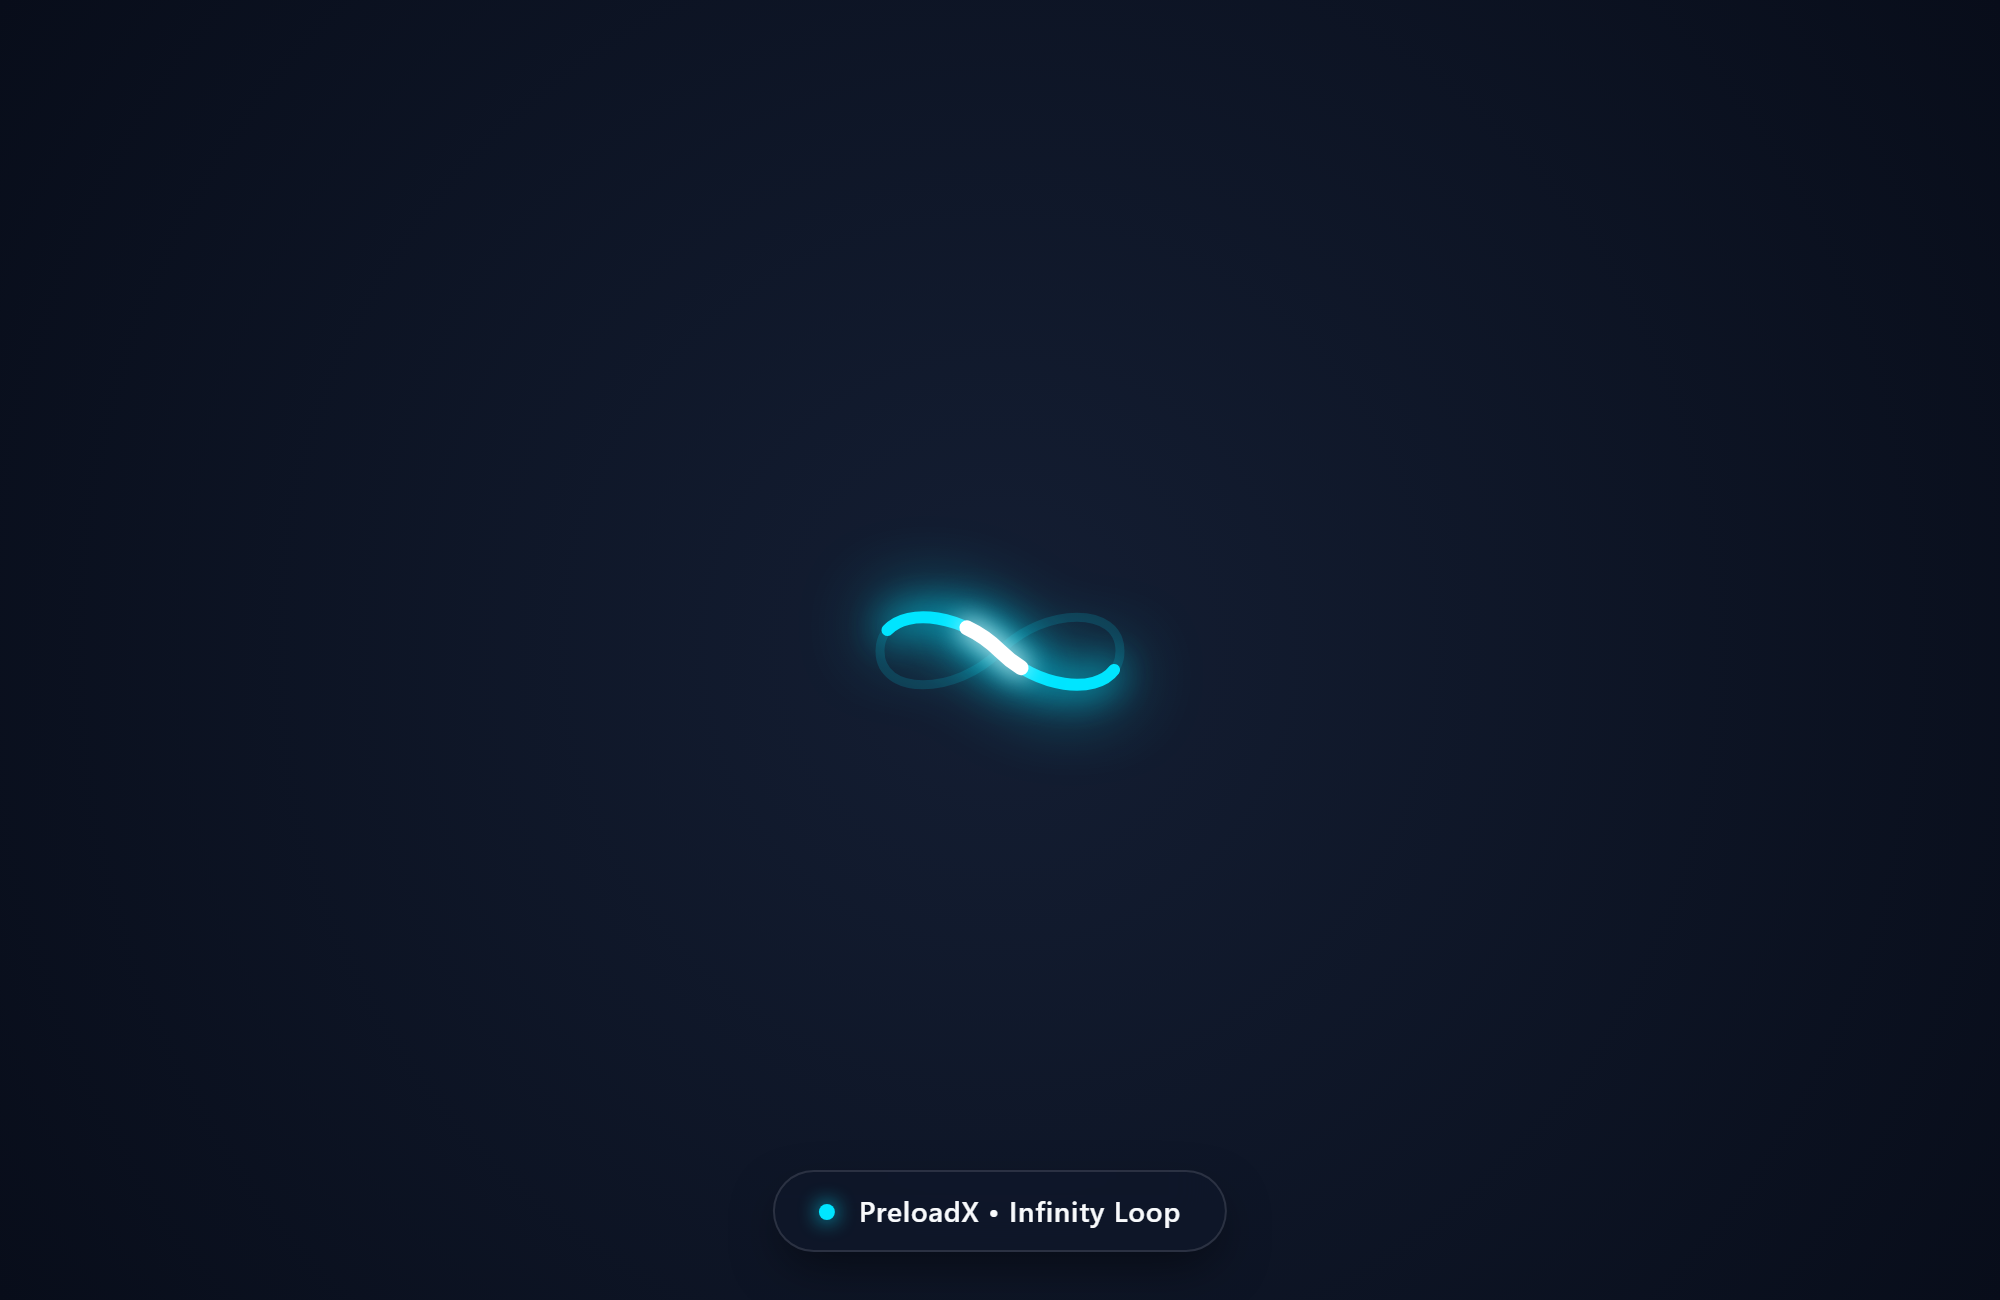
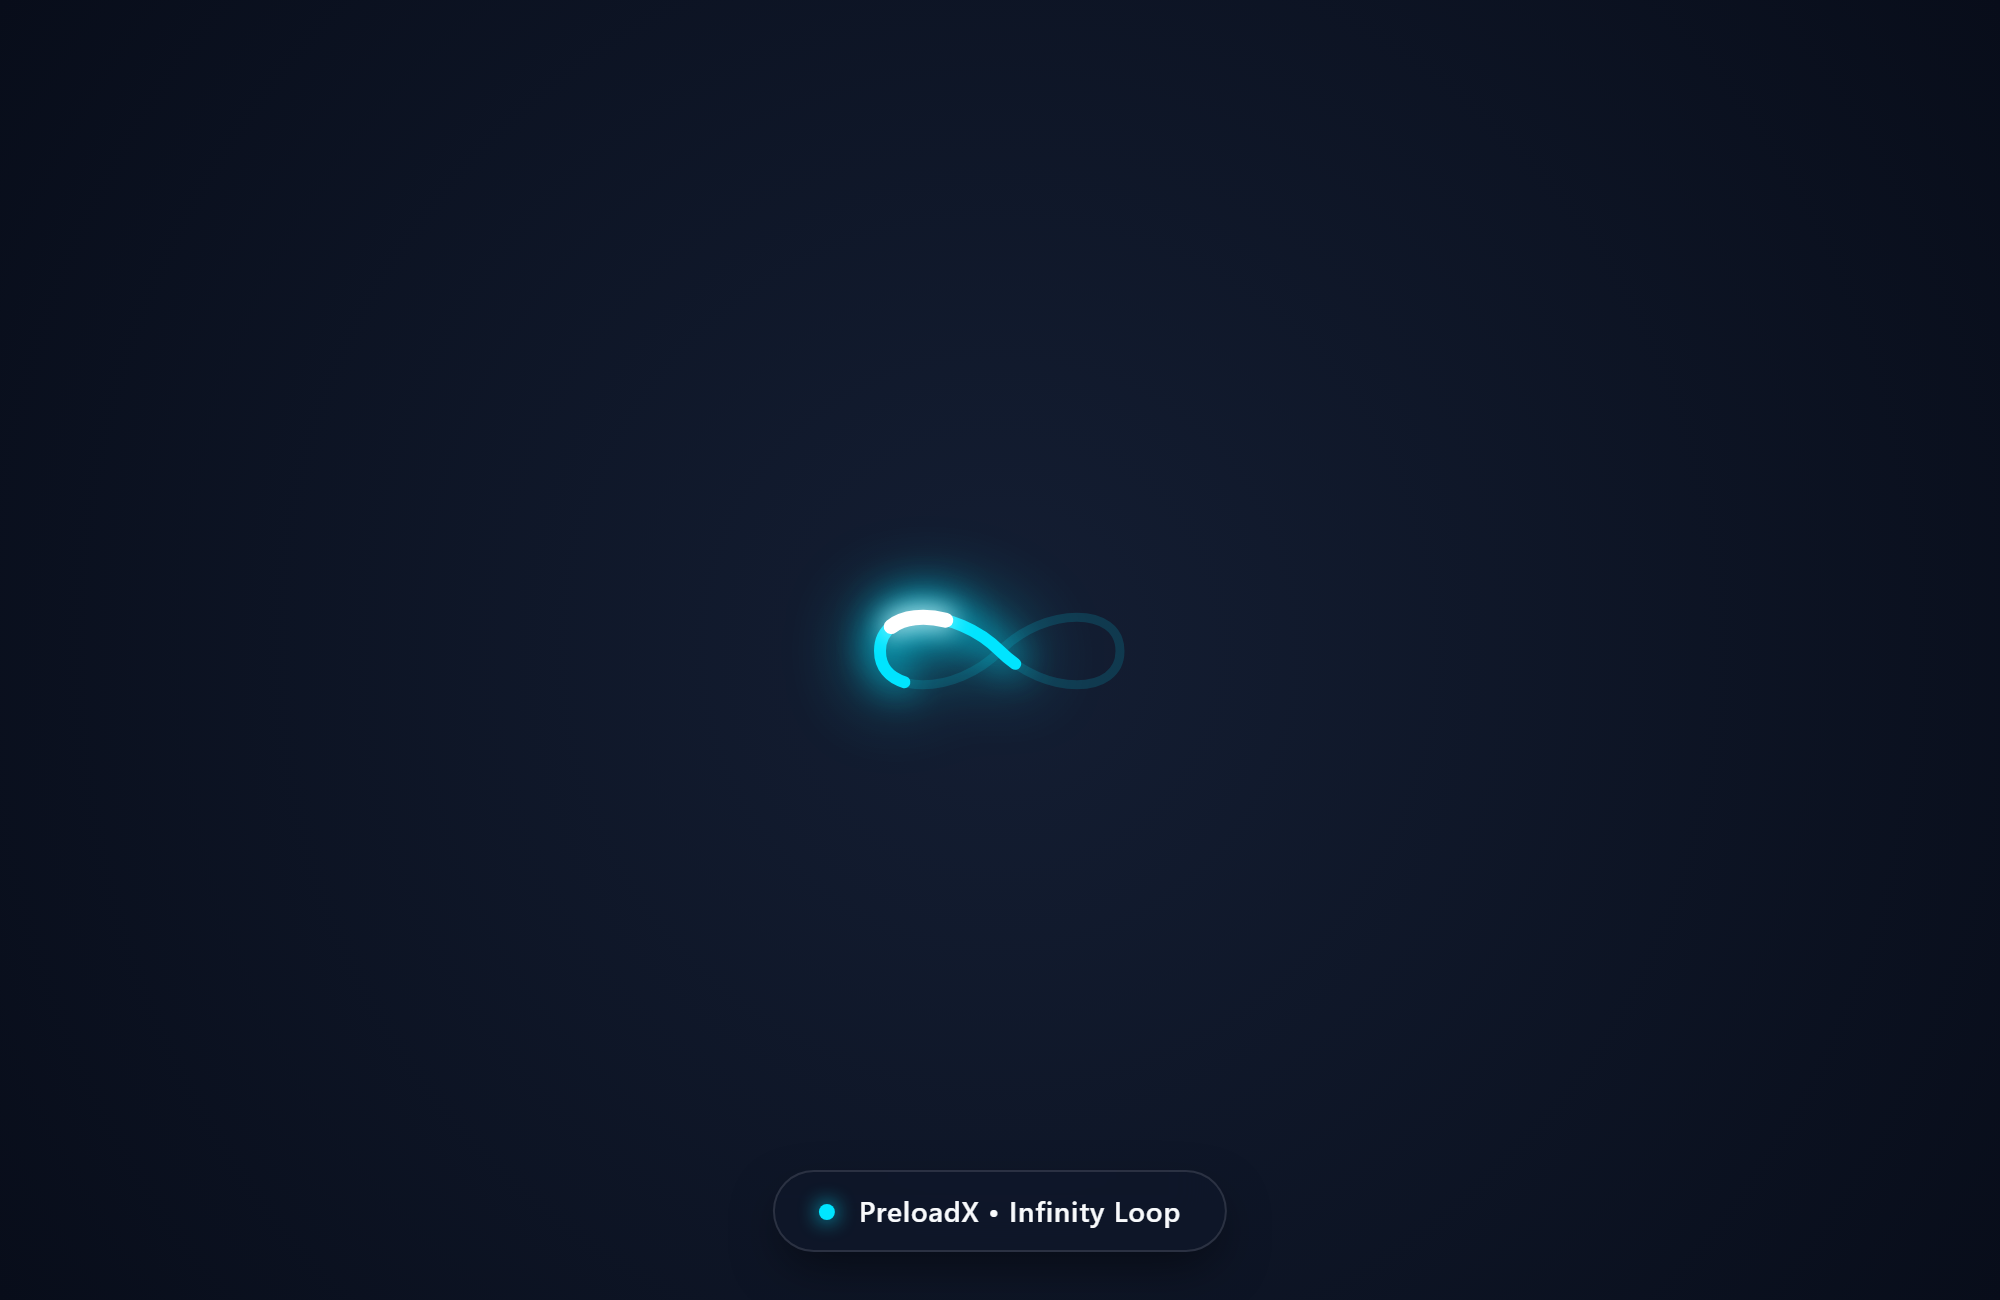
Improvement: Updated screenshots with calibrated animation timings and refreshed admin dashboard capture.

Changed region(s): [[0.403, 0.4308, 0.589, 0.5538]]

diff --git a/previews/admin-dashboard.html b/previews/admin-dashboard.html
@@ -1,0 +1,269 @@
+<!DOCTYPE html>
+<html lang="en">
+<head>
+    <meta charset="UTF-8">
+    <meta name="viewport" content="width=device-width, initial-scale=1.0">
+    <title>PreloadX Admin Dashboard</title>
+    <link rel="stylesheet" href="../src/assets/css/preloadx-style.css">
+    <link rel="stylesheet" href="../src/admin/css/preloadx-admin-style.css">
+    <style>
+        * { margin: 0; padding: 0; box-sizing: border-box; }
+        body {
+            font-family: -apple-system, BlinkMacSystemFont, "Segoe UI", Roboto, Oxygen-Sans, Ubuntu, Cantarell, "Helvetica Neue", sans-serif;
+            background: #f0f0f1;
+            color: #3c434a;
+            display: flex;
+            min-height: 100vh;
+        }
+        #wpadminbar {
+            position: fixed;
+            top: 0;
+            left: 0;
+            right: 0;
+            height: 32px;
+            background: #1d2327;
+            display: flex;
+            align-items: center;
+            justify-content: space-between;
+            padding: 0 16px;
+            z-index: 99999;
+            color: #c3c4c7;
+            font-size: 13px;
+        }
+        #wpadminbar .brand { font-weight: 600; color: #fff; display: flex; align-items: center; gap: 8px; }
+        #wpadminbar .user { color: #c3c4c7; }
+        #adminmenuback, #adminmenuwrap {
+            width: 160px;
+            background: #1d2327;
+            position: fixed;
+            top: 32px;
+            bottom: 0;
+            left: 0;
+            z-index: 9999;
+        }
+        .wp-menu {
+            list-style: none;
+            padding: 10px 0;
+        }
+        .wp-menu li a {
+            display: flex;
+            align-items: center;
+            padding: 9px 12px;
+            color: #c3c4c7;
+            text-decoration: none;
+            font-size: 13px;
+            font-weight: 400;
+        }
+        .wp-menu li.current a {
+            background: #2271b1;
+            color: #fff;
+            font-weight: 600;
+        }
+        .wp-menu li:hover:not(.current) a {
+            background: #13171a;
+            color: #72aee6;
+        }
+        #wpcontent {
+            margin-left: 160px;
+            margin-top: 32px;
+            padding: 24px;
+            width: calc(100% - 160px);
+            background: #f0f0f1;
+        }
+        .preloadx-admin-wrap {
+            max-width: 1300px;
+            margin: 0 auto;
+        }
+        :root {
+            --preloader-color: #00e5ff;
+            --preloader-size: 80px;
+            --preloader-radius: 8px;
+            --preloader-font-size: 32px;
+        }
+    </style>
+</head>
+<body>
+    <div id="wpadminbar">
+        <div class="brand">
+            <span>WordPress 7.1</span>
+            <span>• My Awesome Site</span>
+        </div>
+        <div class="user">Howdy, vishwasr</div>
+    </div>
+
+    <div id="adminmenuwrap">
+        <ul class="wp-menu">
+            <li><a href="#">Dashboard</a></li>
+            <li><a href="#">Posts</a></li>
+            <li><a href="#">Media</a></li>
+            <li><a href="#">Pages</a></li>
+            <li><a href="#">Appearance</a></li>
+            <li><a href="#">Plugins</a></li>
+            <li><a href="#">Settings</a></li>
+            <li class="current"><a href="#">PreloadX</a></li>
+        </ul>
+    </div>
+
+    <div id="wpcontent">
+        <div class="wrap preloadx-admin-wrap">
+            <div class="preloadx-header">
+                <div class="preloadx-brand">
+                    <h1 class="preloadx-title">PreloadX <span class="preloadx-version-badge">v1.1.0</span></h1>
+                    <p class="preloadx-subtitle">Customize modern, ultra-smooth page loaders for your WordPress website</p>
+                </div>
+            </div>
+
+            <div class="preloadx-main-card">
+                <nav class="preloadx-tabs" id="preloadx-tabs">
+                    <a href="#tab-general" class="nav-tab nav-tab-active">
+                        <span>🎨</span> General & Appearance
+                    </a>
+                    <a href="#tab-display" class="nav-tab">
+                        <span>👁</span> Display Rules
+                    </a>
+                    <a href="#tab-advanced" class="nav-tab">
+                        <span>⚙</span> Advanced Settings
+                    </a>
+                </nav>
+
+                <div class="preloadx-tab-content" style="display:block; padding: 24px;">
+                    <div class="preloadx-section-header">
+                        <h3>Background & Canvas Styling</h3>
+                        <p>Configure the background canvas and accent colors for your preloader.</p>
+                    </div>
+
+                    <div class="preloadx-form-grid" style="display: grid; grid-template-columns: 1fr 1fr; gap: 20px; margin-bottom: 24px;">
+                        <div class="preloadx-field">
+                            <label style="display:block; font-weight:600; margin-bottom:8px;">Background Type</label>
+                            <select class="preloadx-select" style="width:100%; padding:8px 12px; border:1px solid #8c8f94; border-radius:4px; background:#fff;">
+                                <option>Solid Color</option>
+                                <option selected>Gradient Background</option>
+                                <option>Background Image</option>
+                            </select>
+                        </div>
+                        <div class="preloadx-field">
+                            <label style="display:block; font-weight:600; margin-bottom:8px;">Preloader Accent Color</label>
+                            <div style="display:flex; align-items:center; gap:10px;">
+                                <input type="color" value="#00e5ff" style="width:40px; height:36px; border:1px solid #8c8f94; border-radius:4px; padding:2px; cursor:pointer;" />
+                                <span style="font-family:monospace; font-weight:600;">#00e5ff (Cyber Cyan)</span>
+                            </div>
+                        </div>
+                    </div>
+
+                    <div class="preloadx-section-header" style="margin-top: 32px;">
+                        <h3>Loader Dimensions & Typography</h3>
+                        <p>Fine-tune size scaling, corner rounding, and text sizing with real-time responsive controls.</p>
+                    </div>
+
+                    <div class="preloadx-form-grid" style="display: grid; grid-template-columns: 1fr 1fr 1fr; gap: 20px; margin-bottom: 30px;">
+                        <div class="preloadx-field">
+                            <div style="display:flex; justify-content:space-between; align-items:center; margin-bottom:8px;">
+                                <label style="font-weight:600;">Loader Size</label>
+                                <div class="preloadx-unit-toggle">
+                                    <button type="button" class="px-unit-btn active" style="background:#2271b1; color:#fff; border:none; padding:2px 8px; border-radius:3px 0 0 3px; cursor:pointer;">%</button><button type="button" class="px-unit-btn" style="background:#f0f0f1; border:1px solid #8c8f94; padding:2px 8px; border-radius:0 3px 3px 0; cursor:pointer;">px</button>
+                                </div>
+                            </div>
+                            <input type="range" min="10" max="200" value="100" style="width:100%;" />
+                            <span style="font-size:12px; color:#646970;">Current: <strong>100%</strong> (Responsive Scale)</span>
+                        </div>
+
+                        <div class="preloadx-field">
+                            <label style="display:block; font-weight:600; margin-bottom:8px;">Corner Radius</label>
+                            <input type="range" min="0" max="40" value="12" style="width:100%;" />
+                            <span style="font-size:12px; color:#646970;">Current: <strong>12px</strong></span>
+                        </div>
+
+                        <div class="preloadx-field">
+                            <label style="display:block; font-weight:600; margin-bottom:8px;">Exit Transition</label>
+                            <select class="preloadx-select" style="width:100%; padding:8px 12px; border:1px solid #8c8f94; border-radius:4px; background:#fff;">
+                                <option selected>Fade Out (Smooth Opacity Dissolve)</option>
+                                <option>Slide Up (Curtain Reveal)</option>
+                                <option>Split (Center Split)</option>
+                                <option>Diagonal Wipe</option>
+                                <option>Scale Out (Zoom Fade)</option>
+                            </select>
+                        </div>
+                    </div>
+
+                    <div class="preloadx-section-header" style="margin-top: 36px;">
+                        <h3>Select Preloader Style</h3>
+                        <p>Click directly on any card below to select and preview in real time.</p>
+                    </div>
+
+                    <div class="preloadx-gallery-grid" style="display: grid; grid-template-columns: repeat(4, 1fr); gap: 16px;">
+                        <!-- 1. Infinity Loop (SELECTED) -->
+                        <div class="preloadx-card preloadx-card-selected" style="border: 2px solid #2271b1; box-shadow: 0 0 0 2px rgba(34,113,177,0.3); border-radius: 10px; overflow: hidden; background: #fff;">
+                            <div class="preloadx-preview-wrap" style="height: 120px; background: radial-gradient(circle, #141e33, #080d1a); display:flex; justify-content:center; align-items:center;">
+                                <div id="infinity-loop-loader">
+                                    <svg class="px-infinity-svg" viewBox="0 0 100 50" style="width:64px; height:32px;">
+                                        <path class="px-inf-bg" d="M 50,25 C 65,10 90,10 90,25 C 90,40 65,40 50,25 C 35,10 10,10 10,25 C 10,40 35,40 50,25 Z" />
+                                        <path class="px-inf-trail" d="M 50,25 C 65,10 90,10 90,25 C 90,40 65,40 50,25 C 35,10 10,10 10,25 C 10,40 35,40 50,25 Z" />
+                                        <path class="px-inf-head" d="M 50,25 C 65,10 90,10 90,25 C 90,40 65,40 50,25 C 35,10 10,10 10,25 C 10,40 35,40 50,25 Z" />
+                                    </svg>
+                                </div>
+                            </div>
+                            <div class="preloadx-card-footer" style="padding: 10px 14px; display:flex; justify-content:space-between; align-items:center; background:#f6f7f7; border-top:1px solid #dcdcde;">
+                                <span style="font-weight:700; font-size:13px; color:#1d2327;">Infinity Loop</span>
+                                <span style="background:#2271b1; color:#fff; font-size:10px; font-weight:700; padding:2px 6px; border-radius:3px;">ACTIVE</span>
+                            </div>
+                        </div>
+
+                        <!-- 2. 3D Celestial Orbit -->
+                        <div class="preloadx-card" style="border: 1px solid #dcdcde; border-radius: 10px; overflow: hidden; background: #fff;">
+                            <div class="preloadx-preview-wrap" style="height: 120px; background: radial-gradient(circle, #141e33, #080d1a); display:flex; justify-content:center; align-items:center;">
+                                <div id="orbital-ring-loader">
+                                    <div class="px-orbit-wrap" style="width:60px; height:60px;">
+                                        <div class="px-orbit-nucleus"></div>
+                                        <div class="px-orbit-track px-orbit-track-1"><div class="px-orbit-satellite"></div></div>
+                                        <div class="px-orbit-track px-orbit-track-2"><div class="px-orbit-satellite"></div></div>
+                                        <div class="px-orbit-track px-orbit-track-3"><div class="px-orbit-satellite"></div></div>
+                                    </div>
+                                </div>
+                            </div>
+                            <div class="preloadx-card-footer" style="padding: 10px 14px; background:#f6f7f7; border-top:1px solid #dcdcde;">
+                                <span style="font-weight:600; font-size:13px; color:#3c434a;">3D Celestial Orbit</span>
+                            </div>
+                        </div>
+
+                        <!-- 3. Neon Radar Scanner -->
+                        <div class="preloadx-card" style="border: 1px solid #dcdcde; border-radius: 10px; overflow: hidden; background: #fff;">
+                            <div class="preloadx-preview-wrap" style="height: 120px; background: radial-gradient(circle, #141e33, #080d1a); display:flex; justify-content:center; align-items:center;">
+                                <div id="radar-scanner-loader">
+                                    <div class="px-radar" style="width:60px; height:60px;">
+                                        <div class="px-radar-sweep"></div>
+                                        <div class="px-radar-ring"></div>
+                                        <div class="px-radar-center"></div>
+                                    </div>
+                                </div>
+                            </div>
+                            <div class="preloadx-card-footer" style="padding: 10px 14px; background:#f6f7f7; border-top:1px solid #dcdcde;">
+                                <span style="font-weight:600; font-size:13px; color:#3c434a;">Neon Radar Scanner</span>
+                            </div>
+                        </div>
+
+                        <!-- 4. Real Progress Bar -->
+                        <div class="preloadx-card" style="border: 1px solid #dcdcde; border-radius: 10px; overflow: hidden; background: #fff;">
+                            <div class="preloadx-preview-wrap" style="height: 120px; background: radial-gradient(circle, #141e33, #080d1a); display:flex; justify-content:center; align-items:center;">
+                                <div id="progress-bar-loader" style="width:80%;">
+                                    <div class="px-progress-track">
+                                        <div class="px-progress-fill" style="width:75%;"></div>
+                                    </div>
+                                    <div class="px-progress-text">75%</div>
+                                </div>
+                            </div>
+                            <div class="preloadx-card-footer" style="padding: 10px 14px; background:#f6f7f7; border-top:1px solid #dcdcde;">
+                                <span style="font-weight:600; font-size:13px; color:#3c434a;">Real Progress Bar</span>
+                            </div>
+                        </div>
+                    </div>
+
+                    <div style="margin-top: 30px; display:flex; gap:12px;">
+                        <button type="button" class="button button-primary button-large" style="background:#2271b1; color:#fff; border:none; padding:8px 24px; border-radius:4px; font-size:14px; font-weight:600; cursor:pointer;">Save Changes</button>
+                        <button type="button" class="button button-secondary button-large" style="background:#f6f7f7; border:1px solid #dcdcde; padding:8px 20px; border-radius:4px; font-size:14px; font-weight:500; cursor:pointer;">Reset to Defaults</button>
+                    </div>
+                </div>
+            </div>
+        </div>
+    </div>
+</body>
+</html>
